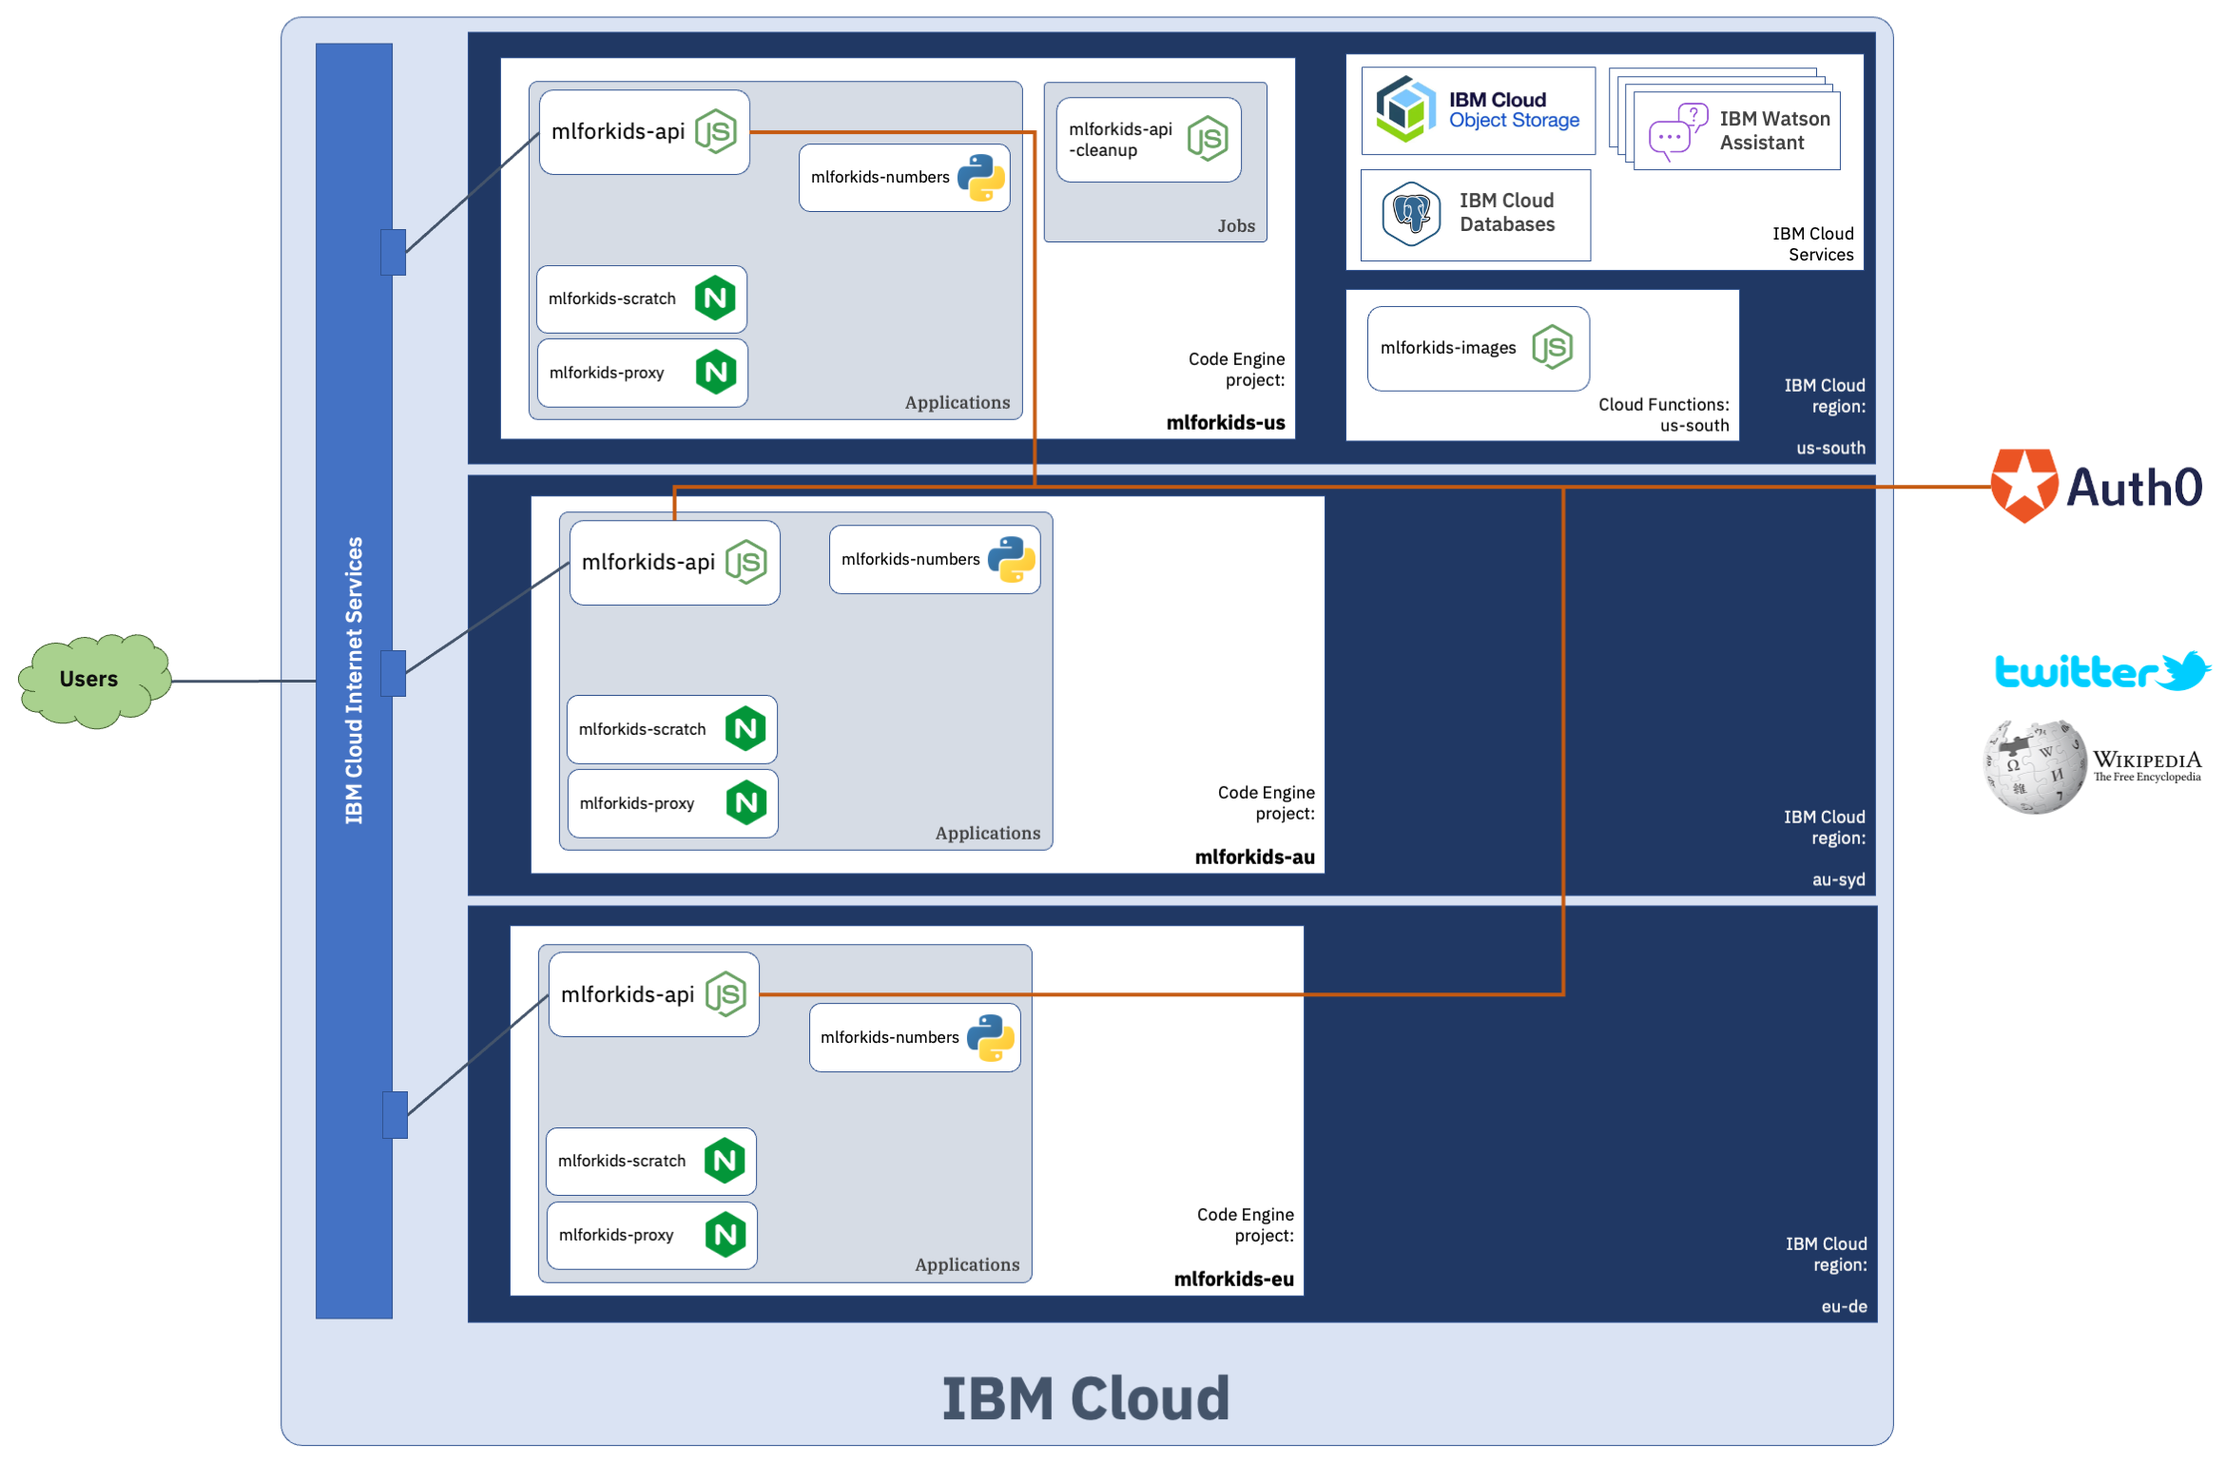
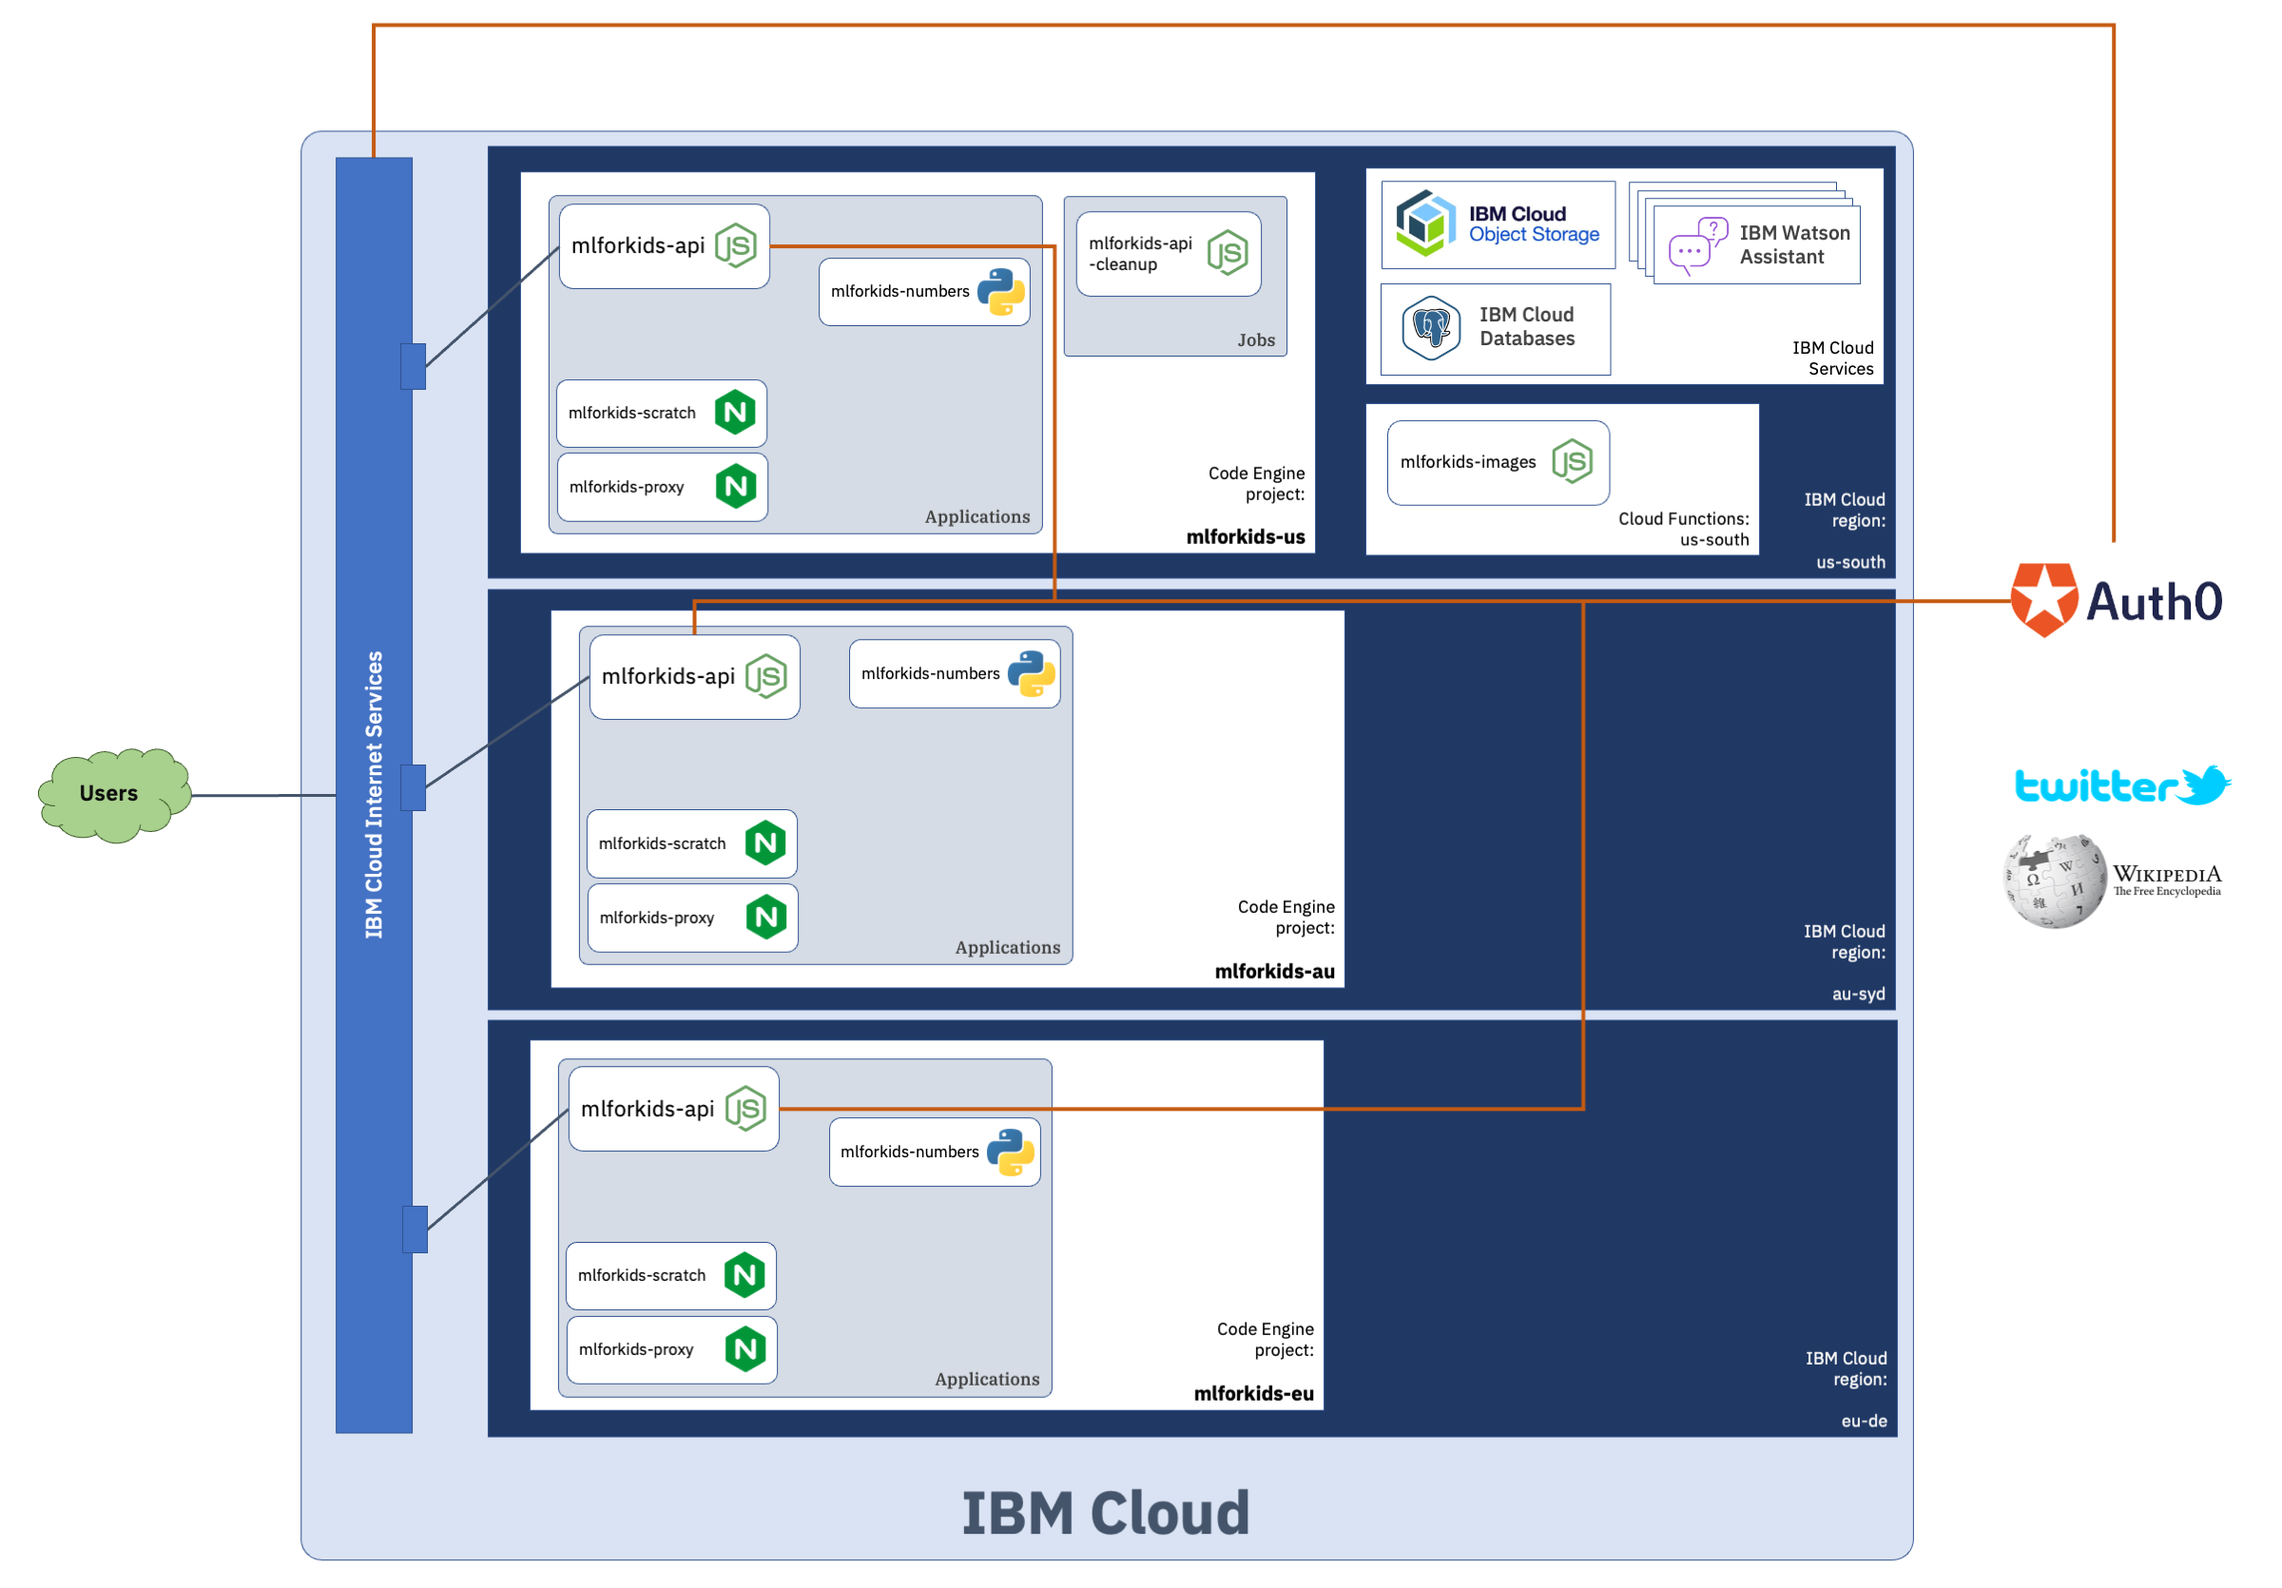
docs: document that the login subdomain is now delegated

Changed region(s): [[0.1248, 0.0, 0.9983, 0.9981], [0.0, 0.4366, 0.0936, 0.5302]]

diff --git a/DEPLOYMENT.md b/DEPLOYMENT.md
@@ -37,6 +37,7 @@ An instance of [Cloud Internet Services](https://www.ibm.com/cloud/cloud-interne
 
 | **url**                              | **routed to**     | **notes** |
 | ------------------------------------ | ----------------- | --------- |
+| login.machinelearningforkids.co.uk   | _Auth0_           | see [Where users are authenticated](#where-users-are-authenticated) |
 | scratch.machinelearningforkids.co.uk | mlforkids-scratch | *caching means most requests are  served immediately from Cloud Internet Services layer* |
 | proxy.machinelearningforkids.co.uk   | mlforkids-proxies |
 | machinelearningforkids.co.uk         | mlforkids-api     |
@@ -69,7 +70,7 @@ Authentication is provided by a third-party service, [Auth0](https://auth0.com).
 
 Back-end/API authentication is handled by the **mlforkids-api** service, which makes requests directly to Auth0 APIs using express middleware.
 
-Web authentication is handled through Auth0.
+Web authentication is handled through Auth0. The `login.machinelearningforkids.co.uk` subdomain is delegated to Auth0 - with a CNAME pointing at the Auth0 servers.
 
 ![deployment components](./docs/04-auth.png)
 
